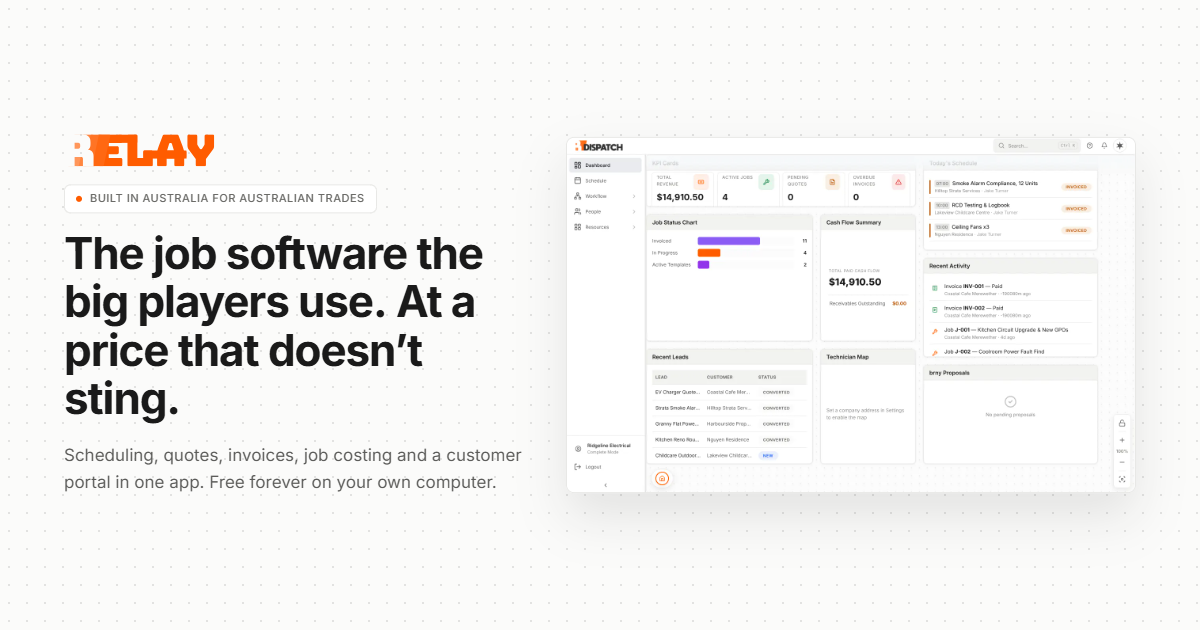
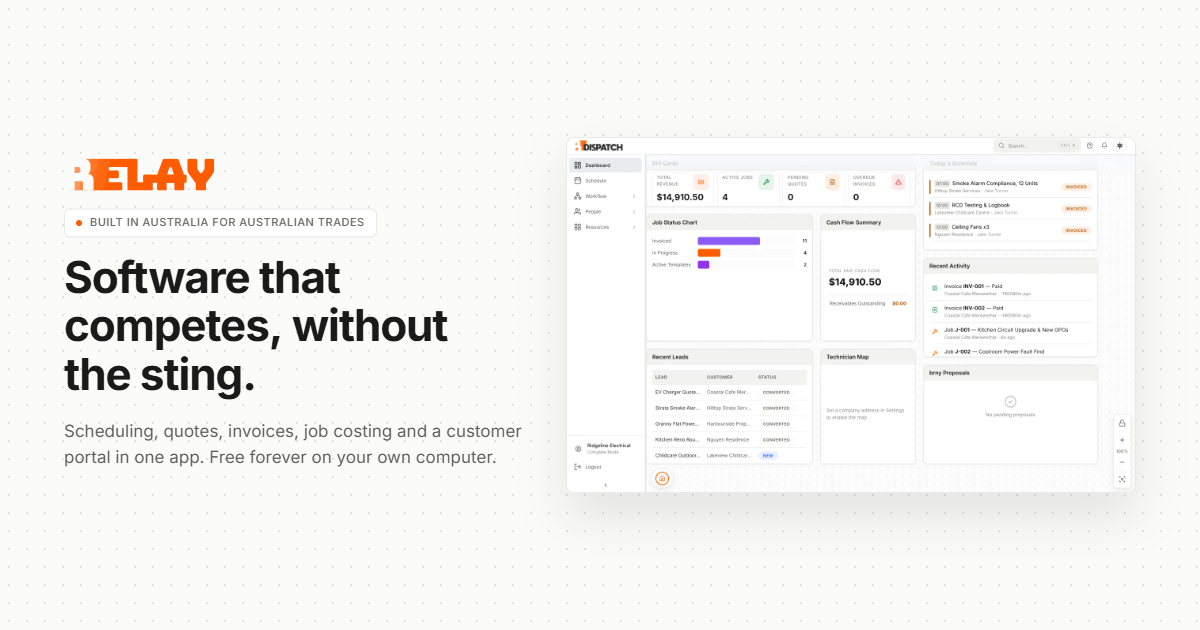
fix(site): drop the unsupported big-players claim from the hero
The hero headline read "The job software the big players use", which asserts
an installed base that does not exist — the site ships with no customers and
no testimonials by design. The claim was removed rather than softened, not
qualified with a hedge that would still imply one. The replacement is
"Software that competes, without the sting.", which makes the same point
about price without borrowing anyone else's credibility.

- Rewrite the h1 in site/index.html. It is now the only copy that differs
  from the artboard: 857 of 868 design tokens still match in order, and all
  eleven that do not belong to that one sentence.
- Update HEADLINE in scripts/og-card.html, which duplicates the string, and
  regenerate site/assets/img/og.png. The card centres itself from the wrapped
  line count, so the shorter headline drops from four lines to three without
  retuning any layout constants.
- Record the deviation in the DOCS.md list alongside the colour and
  target-size ones, so the next person diffing against the design knows the
  mismatch is deliberate.

Verified against a rebuilt dist/: the copy-fidelity audit shows only the
expected headline diff, npm test stays at 498 passing, and a mobile
Lighthouse run holds 98 performance / 96 accessibility / 100 best practices
/ 100 SEO.

Changed region(s): [[0.0308, 0.2111, 0.4317, 0.7841]]

diff --git a/site/index.html b/site/index.html
@@ -99,7 +99,7 @@ if (location.hash.startsWith('#/')) {
   <section id="top" class="hero">
     <div class="hero__inner">
       <span class="hero__pill">Built in Australia for Australian trades</span>
-      <h1>The job software the big players use. At a price that doesn't sting.</h1>
+      <h1>Software that competes, without the sting.</h1>
       <p class="hero__sub">Scheduling, quotes, invoices, job costing and a customer portal in one app. Free forever on your own computer. Add your crew and cloud sync from $18 + GST per user a month.</p>
       <div class="hero__actions">
         <a class="btn btn--lg btn--primary" href="#download">

diff --git a/scripts/og-card.html b/scripts/og-card.html
@@ -54,7 +54,7 @@
   const DOT = '#dcdcda';
 
   const EYEBROW = 'Built in Australia for Australian trades';
-  const HEADLINE = 'The job software the big players use. At a price that doesn\u2019t sting.';
+  const HEADLINE = 'Software that competes, without the sting.';
   const SUB = 'Scheduling, quotes, invoices, job costing and a customer portal in one app. Free forever on your own computer.';
 
   const H1_SIZE = 44;

diff --git a/DOCS.md b/DOCS.md
@@ -289,6 +289,14 @@ npx serve .
 
 #### Known deviations and limitations
 
+- **One deliberate copy deviation.** The hero headline reads *"Software that
+  competes, without the sting."*, not the design's *"The job software the big
+  players use. At a price that doesn't sting."* The design's line asserts an
+  installed base that does not exist yet — the site ships with no customers and
+  no testimonials by design — so that claim was removed rather than softened.
+  This is the only copy that differs: comparing the artboard against
+  `site/index.html` token by token, 857 of 868 design tokens match in order, and
+  all eleven that do not belong to that one sentence.
 - **One deliberate colour deviation.** The featured plan's call-to-action is
   `#C2410C`, not the design's `#FF5C00`. White on `#FF5C00` is 3.09:1, which
   fails WCAG AA for 16 px bold text; `#C2410C` is 5.18:1. The small header button
